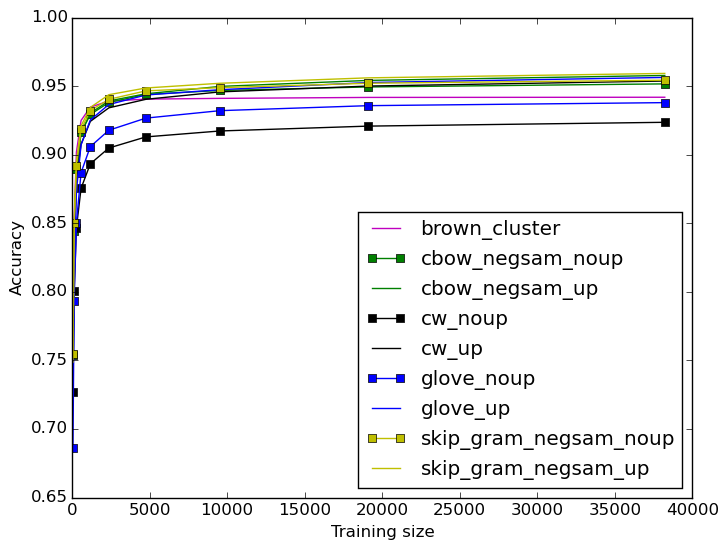
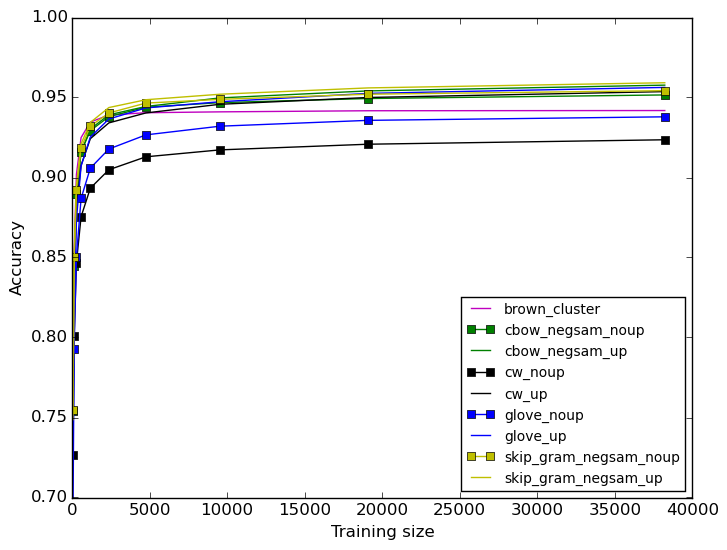
set y ranges, remove unused scripts add bash scrip to get all plots

diff --git a/trunk/plots/bestNER.py b/trunk/plots/bestNER.py
@@ -38,8 +38,7 @@ marker = ''
 linestyle = '-'
 noupMarker = 's'
 walk_dir = inputfolder
-legParams = {'legend.fontsize': 10,
-          'legend.linewidth': 0.4}
+legParams = {'legend.fontsize': 10}
 
 alist_filter = ['brown_cluster_v4000_best.txt', 
 	'cbow_negsam_noupdated_best.txt', 
@@ -145,12 +144,10 @@ for root, subdirs, files in sortedWalk(walk_dir):
 				yv = []
 				label = ''
 				marker = ''
-	
-#plt.title('Best results from all methods')
+plt.ylim([.7,1])	
 plt.xlabel('Training size')
 plt.ylabel('F1-Measure')
-
-#plt.rcParams.update(legParams)
+plt.rcParams.update(legParams)
 plt.legend(loc='lower right')
 savefig(outputfile, bbox_inches='tight')
 #plt.show()

diff --git a/trunk/plots/bestChunk.py b/trunk/plots/bestChunk.py
@@ -147,7 +147,7 @@ for root, subdirs, files in sortedWalk(walk_dir):
 				print('x ', x)						
 				print('y ', y)			
 				xv = np.array(x)
-				yv = np.array(y)
+				yv = np.array(y)				
 				plt.plot(xv, yv, label=label, linestyle=linestyle, marker=marker, color=color)	
 				x = []
 				y = []
@@ -156,6 +156,7 @@ for root, subdirs, files in sortedWalk(walk_dir):
 				label = ''
 				marker = ''
 
+plt.ylim([.7,1])
 plt.xlabel('Training size')
 plt.ylabel('F1-Measure')
 
@@ -163,6 +164,16 @@ plt.ylabel('F1-Measure')
 plt.legend(loc='lower right')
 savefig(outputfile, bbox_inches='tight')
 #plt.show()
+
+
+
+
+
+
+
+
+
+
 
 
 

diff --git a/trunk/plots/bestPOS.py b/trunk/plots/bestPOS.py
@@ -38,8 +38,7 @@ marker = ''
 linestyle = '-'
 noupMarker = 's'
 walk_dir = inputfolder
-legParams = {'legend.fontsize': 10,
-          'legend.linewidth': 0.4}
+legParams = {'legend.fontsize': 10}
 
 alist_filter = ['brown_cluster_v4000_best.txt', 
 	'cbow_negsam_noupdated_best.txt', 
@@ -145,11 +144,11 @@ for root, subdirs, files in sortedWalk(walk_dir):
 				yv = []
 				label = ''
 				marker = ''
-	
+plt.ylim([.7,1])	
 plt.xlabel('Training size')
 plt.ylabel('Accuracy')
 
-#plt.rcParams.update(legParams)
+plt.rcParams.update(legParams)
 plt.legend(loc='lower right')
 savefig(outputfile, bbox_inches='tight')
 #plt.show()

diff --git a/trunk/plots/bestMWE.py b/trunk/plots/bestMWE.py
@@ -36,8 +36,7 @@ marker = ''
 linestyle = '-'
 noupMarker = 's'
 walk_dir = inputfolder
-legParams = {'legend.fontsize': 10,
-          'legend.linewidth': 0.4}
+legParams = {'legend.fontsize': 10}
 
 alist_filter = ['brown_cluster_v4000_best.txt', 
 #	'cbow_negsam_noupdated_best.txt', 
@@ -149,10 +148,11 @@ for root, subdirs, files in sortedWalk(walk_dir):
 				label = ''
 				marker = ''
 	
+plt.ylim([.1,1])
 plt.xlabel('Training size')
 plt.ylabel('F1-Measure')
 
-#plt.rcParams.update(legParams)
+plt.rcParams.update(legParams)
 plt.legend(loc='lower right')
 savefig(outputfile, bbox_inches='tight')
 #plt.show()

diff --git a/trunk/plots/MWEoutOfVoc.py b/trunk/plots/MWEoutOfVoc.py
@@ -152,12 +152,12 @@ for root, subdirs, files in sortedWalk(walk_dir):
 				label = ''	
 				marker = ''
 
-plt.title('Out of vocabulary words')
+plt.ylim([.7,1])
 plt.xlabel('Training size')
 plt.ylabel('Accuracy')
 
 plt.rcParams.update(legParams)
-plt.legend(loc='lower right')
+plt.legend(loc='best')
 savefig(outputfile, bbox_inches='tight')
 #plt.show()
 

diff --git a/trunk/plots/POSoutOfVocOUT.py b/trunk/plots/POSoutOfVocOUT.py
@@ -150,12 +150,12 @@ for root, subdirs, files in sortedWalk(walk_dir):
 				#zv = []
 				label = ''
 				marker = ''
-	
+plt.ylim([.5,1])
 plt.xlabel('Training size')
 plt.ylabel('Accuracy')
 
 plt.rcParams.update(legParams)
-plt.legend(loc='lower right')
+plt.legend(loc='best')
 savefig(outputfile, bbox_inches='tight')
 #plt.show()
 

diff --git a/trunk/plots/POSoutOfVocIN.py b/trunk/plots/POSoutOfVocIN.py
@@ -162,12 +162,12 @@ for root, subdirs, files in sortedWalk(walk_dir):
 				zv = []
 				label = ''
 				marker = ''
-	
+plt.ylim([.5,1])
 plt.xlabel('Training size')
 plt.ylabel('Accuracy')
 
 plt.rcParams.update(legParams)
-plt.legend(loc='lower right')
+plt.legend(loc='best')
 savefig(outputfile, bbox_inches='tight')
 #plt.show()
 

diff --git a/trunk/plots/NERoutOfVocOUT.py b/trunk/plots/NERoutOfVocOUT.py
@@ -145,8 +145,8 @@ for root, subdirs, files in sortedWalk(walk_dir):
 				xv = []
 				zv = []
 				label = ''
-				marker = ''
-	
+				marker = ''	
+plt.ylim([.5,1])
 plt.xlabel('Training size')
 plt.ylabel('F1-Measure')
 

diff --git a/trunk/plots/NERoutOfVocIN.py b/trunk/plots/NERoutOfVocIN.py
@@ -152,6 +152,7 @@ for root, subdirs, files in sortedWalk(walk_dir):
 				label = ''
 				marker = ''
 		
+plt.ylim([.5,1])
 plt.xlabel('Training size')
 plt.ylabel('F1-Measure')
 
